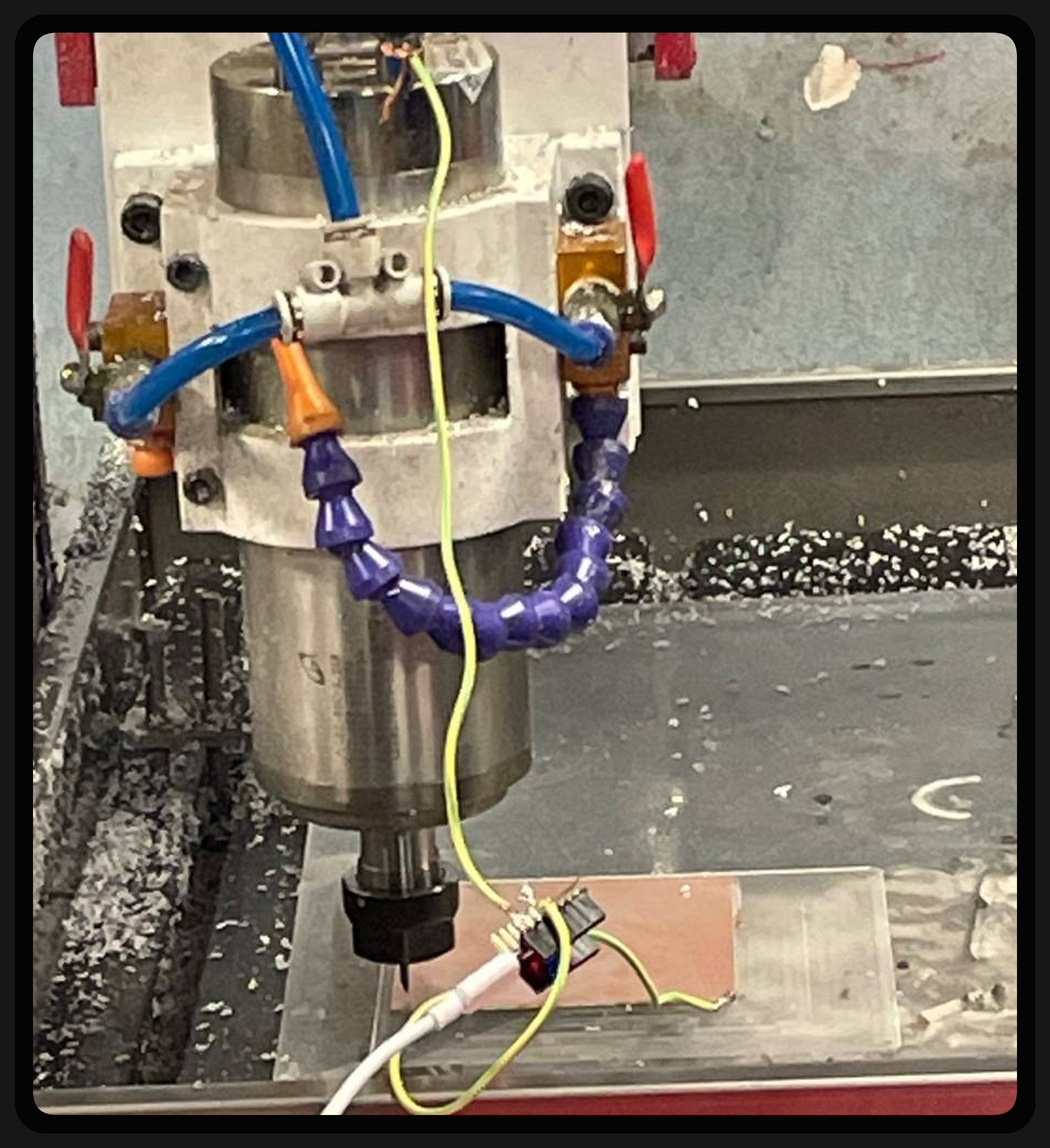
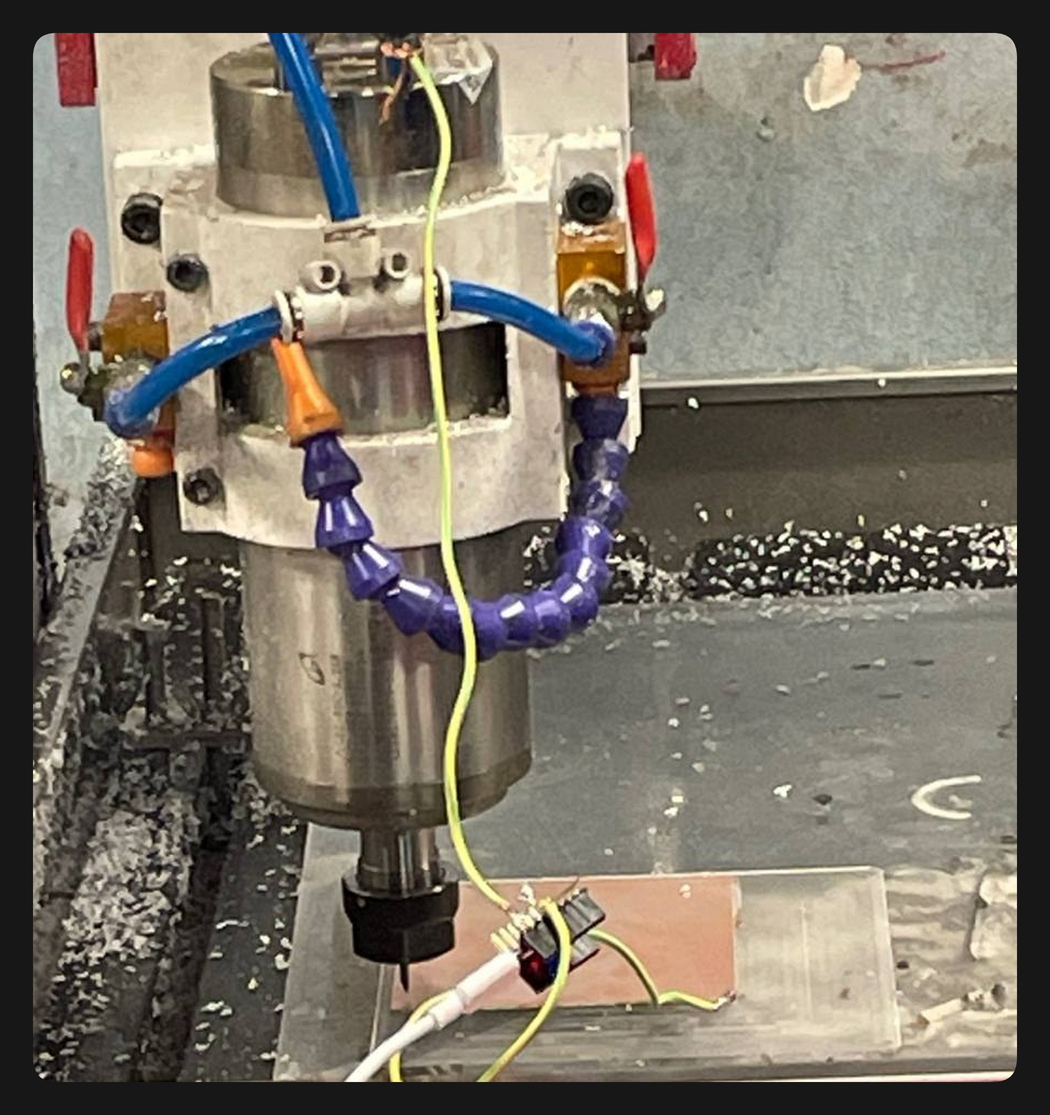
Статья: фото на сером фоне без чёрного поля

diff --git a/docs/article/figures.py b/docs/article/figures.py
@@ -503,14 +503,14 @@ def hand_board():
 # Photos of the article: what is cut away from each, in the pixels of the photo.
 PHOTOS = (
     ("milled-board", (0, 270, 960, 1215)),     # the room above and the hand below
-    ("machine-table", (60, 0, 960, 990)),      # the red frame and the cable below
+    ("machine-table", (60, 0, 960, 960)),      # the red frame and the cable below
     ("first-board", (0, 0, 372, 360)),         # the finger on the right
     ("testboard-hand", None),                  # squared, the fingers cut away
 )
 
 
 def fig_photos():
-    """Each photo on the same two grounds as the cards, its corners round."""
+    """Each photo on the grey ground alone, its corners round."""
     from PIL import Image
     pad = 0.12
     for name, box in PHOTOS:
@@ -522,7 +522,6 @@ def fig_photos():
         width = 7.0
         height = (width - 2 * side) * h / w + 2 * side
         fig = plt.figure(figsize=(width, height), facecolor=C["card"])
-        inset(fig)
         ax = fig.add_axes([side / width, side / height, 1 - 2 * side / width, 1 - 2 * side / height])
         shown = ax.imshow(ph, interpolation="lanczos")
         shown.set_clip_path(FancyBboxPatch((-0.5, -0.5), w, h, transform=ax.transData,
